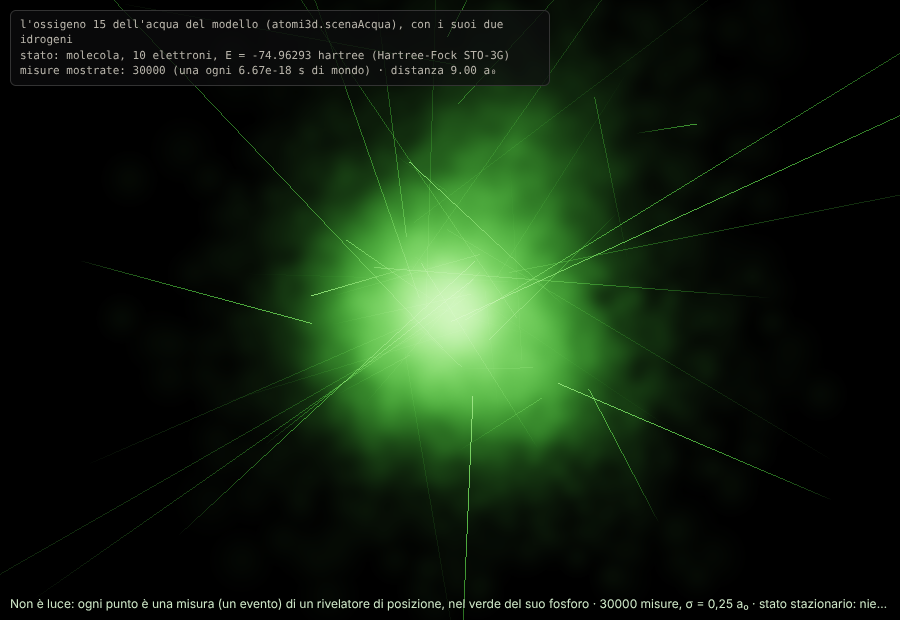
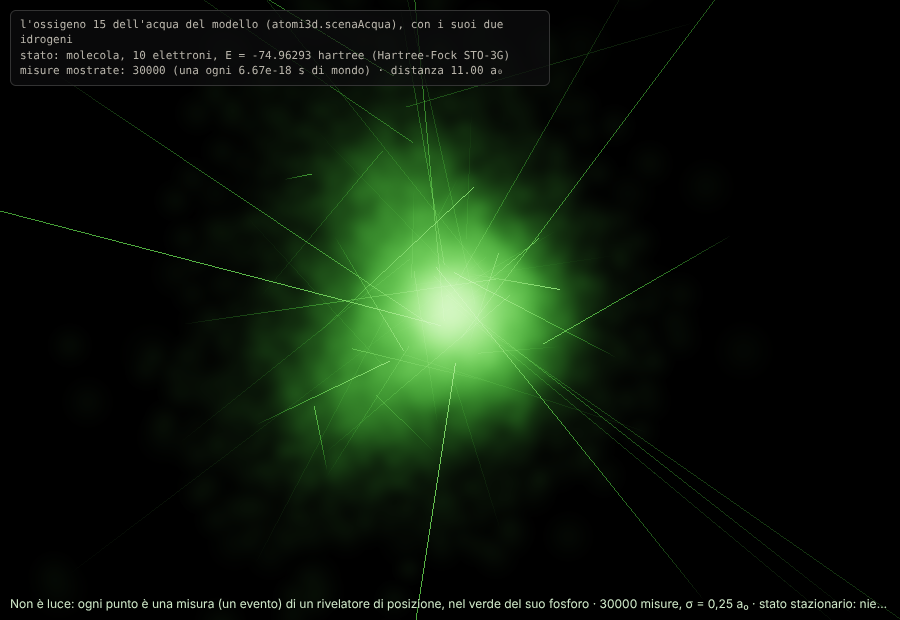
Istantanea dei lavori in corso
Claude-Session: https://claude.ai/code/session_01HEgRdxXhYcDZmLQ42e39by

Changed region(s): [[0.28, 0.0919, 0.7778, 0.8274], [0.7778, 0.5823, 0.8089, 0.6129]]

diff --git a/src/camera/laboratorio.js b/src/camera/laboratorio.js
@@ -310,7 +310,7 @@ function misura() {
   const dpr = devicePixelRatio || 1, H = tela.clientHeight || 1;
   try {
     if (vista === 'cosmo') {
-      if (vistaQuanti) { const g = vistaQuanti.grandezza?.() ?? vistaQuanti.scala?.(); if (g > 0) return g / H; }
+      if (vistaQuanti) { const g = grandezzaQuanti(); if (g > 0) return g / H; }
       if (vistaAtomi) { const c = vistaAtomi.camera; return (2 * c.dist * Math.tan((c.fov || 0.6) / 2) * 1e-9) / H; } // (la camera degli atomi conta in nanometri)
       if (mondo3d && universo3d) { const g = universo3d.bolla().grandezza; return g > 0 ? g / H : null; }
       if (camMappa?.livello === 5) { if (camMappa.suAcqua) return ((camMappa.latoAcqua ?? 1) / camMappa.z) * dpr; const r = rocciaDi(camMappa); return r ? (r.larghezzaM / camMappa.z) * dpr : null; } // (l'acqua: il lato del campione, senza ridisegnarlo)
@@ -434,7 +434,7 @@ function montaAtomi() {
     telaAtomi = document.createElement('canvas'); telaAtomi.style.cssText = 'position:absolute;inset:0;width:100%;height:100%'; tela.parentNode.insertBefore(telaAtomi, tela.nextSibling);
     vistaAtomi = creaVistaAtomi(telaAtomi, { alFuori: esciDagliAtomi, conserva: true });
     vistaAtomi.suAtomo((a) => { if (!a) { dove(); return; } ultimoAtomo = a; $('dove').textContent = `${a.nome || a.simbolo || 'un atomo'}${a.simbolo && a.nome ? ` (${a.simbolo})` : ''}${a.parte ? ` · ${typeof a.parte === 'string' ? a.parte : a.parte.nome || ''}` : ''}${a.rappresenta > 1 ? ` · da qui questa sfera ne rappresenta ${a.rappresenta}: avvicinati e tornano gli atomi` : ''}`; });
-    vistaAtomi.carica(sc.crea()); vistaAtomi.avvia(); chiaveAtomi = sc.chiave;
+    scenaAtomiOra = sc.crea(); vistaAtomi.carica(scenaAtomiOra); vistaAtomi.avvia(); chiaveAtomi = sc.chiave;
     // la camera degli atomi parte alla grandezza a cui si era (niente salto): lo schermo alto quanto era alto un attimo prima
     { const c = vistaAtomi.camera; if (mppPrima > 0) c.dist = (mppPrima * tela.clientHeight) / (2 * Math.tan((c.fov || 0.6) / 2)) * 1e9; }
     // oltre il più vicino possibile (dentro l'atomo): la scala quantistica, alla sua grandezza (montaQuanti)
@@ -447,25 +447,32 @@ function montaAtomi() {
 // ---------- SOTTO GLI ATOMI: LA SCALA QUANTISTICA (src/tre/quanti.js, creaQuanti(N, { atomo, luogo, scala }): un altro
 // modulo). Si monta sopra gli atomi, alla grandezza a cui si è arrivati (scala: l'altezza dello schermo, in metri), con
 // l'atomo che si aveva sotto gli occhi e il luogo di quella materia. Se il modulo non c'è ancora lo si dice, e si resta qui.
-let telaQuanti = null, vistaQuanti = null, nucleoQuanti = null, ultimoAtomo = null, quantiAssenti = false;
+let telaQuanti = null, vistaQuanti = null, nucleoQuanti = null, ultimoAtomo = null, quantiAssenti = false, scenaAtomiOra = null;
 function smontaQuanti() {
   try { vistaQuanti?.libera?.(); nucleoQuanti?.libera?.(); } catch { /* già perso */ }
   telaQuanti?.remove(); telaQuanti = null; vistaQuanti = null; nucleoQuanti = null;
 }
 async function montaQuanti() {
-  if (telaQuanti || quantiAssenti) { if (quantiAssenti) $('dove').textContent = 'Sotto gli atomi: la scala quantistica (src/tre/quanti.js) non è ancora scritta. Qui finisce, per ora, la scala.'; return; }
-  const scala = (misura() || 0) * tela.clientHeight, r = camMappa ? rocciaDi(camMappa) : null;
-  let mod; try { mod = await import('../tre/quanti.js'); } catch { quantiAssenti = true; return montaQuanti(); }
+  if (telaQuanti || quantiAssenti) { if (quantiAssenti) $('dove').textContent = 'Sotto gli atomi: la scala quantistica (src/tre/quanti.js) non si è potuta montare. Qui finisce, per ora, la scala.'; return; }
+  const alta = (misura() || 0) * tela.clientHeight, r = camMappa ? rocciaDi(camMappa) : null, sc = scenaAtomiOra; if (!sc || !(alta > 0)) return;
+  let mod, Qc; try { [mod, Qc] = await Promise.all([import('../tre/quanti.js'), import('./quanti.js')]); } catch { quantiAssenti = true; return montaQuanti(); }
   if (!vistaAtomi || telaQuanti || typeof mod.creaQuanti !== 'function') return;
   try {
+    // l'atomo: quello più vicino al punto verso cui si è scesi (il bersaglio della camera degli atomi, in nanometri)
+    const u = { m: 1, nm: 1e-9, A: 1e-10 }[sc.unita || 'nm'] || 1e-9, b = vistaAtomi.camera.bersaglio.map((x) => (x * 1e-9) / u), P = sc.atomi.pos; let i0 = 0, d0 = Infinity;
+    for (let i = 0; i < P.length / 3; i++) { const d = (P[3 * i] - b[0]) ** 2 + (P[3 * i + 1] - b[1]) ** 2 + (P[3 * i + 2] - b[2]) ** 2; if (d < d0) { d0 = d; i0 = i; } }
+    const atomo = Qc.atomoDaScena(sc, i0, { indirizzo: `${r?.luogo?.indirizzo || r?.base?.luogo?.indirizzo || chiaveAtomi}/atomo ${i0}` });
     telaQuanti = document.createElement('canvas'); telaQuanti.style.cssText = 'position:absolute;inset:0;width:100%;height:100%;outline:none'; (telaAtomi || tela).parentNode.insertBefore(telaQuanti, (telaAtomi || tela).nextSibling);
     nucleoQuanti = creaNucleo(telaQuanti, { conserva: true });
-    vistaQuanti = mod.creaQuanti(nucleoQuanti, { atomo: ultimoAtomo, luogo: r?.luogo || r?.base?.luogo || null, scala, alFuori: () => { const img = istantanea(); smontaQuanti(); disegna(); dove(); avviaPassaggio(img); } });
-    nucleoQuanti.avvia?.();
+    vistaQuanti = mod.creaQuanti(nucleoQuanti, { atomo, luogo: null, scala: atomo.scala });
+    // la camera parte alla grandezza a cui si era: lo schermo alto `alta` metri
+    nucleoQuanti.attacca(vistaQuanti.corpo, { distanza: alta / (2 * Math.tan((nucleoQuanti.camera.fov || 0.75) / 2)) }); nucleoQuanti.avvia();
     // allontanandosi oltre la grandezza da cui si è entrati si torna agli atomi
-    telaQuanti.addEventListener('wheel', (e) => { const g = vistaQuanti?.grandezza?.() ?? vistaQuanti?.scala?.(); if (e.deltaY > 0 && (!(g > 0) || g >= scala)) { e.stopImmediatePropagation(); e.preventDefault(); const img = istantanea(); smontaQuanti(); disegna(); dove(); avviaPassaggio(img); } }, { capture: true, passive: false });
+    telaQuanti.addEventListener('wheel', (e) => { if (e.deltaY > 0 && !(grandezzaQuanti() < alta)) { e.stopImmediatePropagation(); e.preventDefault(); const img = istantanea(); smontaQuanti(); disegna(); dove(); avviaPassaggio(img); } }, { capture: true, passive: false });
   } catch (err) { console.warn('la scala quantistica non si è potuta montare', err); smontaQuanti(); quantiAssenti = true; }
 }
+// l'altezza dello schermo nella scala quantistica (metri): dalla distanza della camera dall'atomo
+const grandezzaQuanti = () => { const d = vistaQuanti?.stato?.distanza; return d > 0 ? 2 * (nucleoQuanti?.stato?.tanY || Math.tan(0.375)) * d : null; };
 // ---------- IL MONDO IN TRE DIMENSIONI (src/tre): nella vista «il cosmo», dal cosmo fino al suolo, lo spazio in cui ci si
 // muove prende il posto della mappa piatta (che resta: senza WebGL2, e a richiesta col bottone «mappa piatta»). Una tela
 // nuova sopra #tela; il motore ha il suo ciclo. La camera della mappa (camMappa) segue: dice a che livello e dove si è,
@@ -1989,6 +1996,7 @@ function cosaSiGuarda() {
 }
 function barraDiScala(mpp) {
   if (!barraScala) return;
+  barraScala.style.bottom = telaQuanti ? '36px' : ''; // (sopra la riga dello strumento della scala quantistica)
   if (!(mpp > 0)) { if (barraPrima !== '') { barraScala.innerHTML = ''; barraPrima = ''; } return; }
   const ora = performance.now(); if (ora - barraOra < 200 && Math.abs(Math.log(mpp / barraMpp)) < 0.02) return; barraOra = ora; barraMpp = mpp; // (il testo al più cinque volte al secondo)
   const voluto = 120 * mpp, e = Math.pow(10, Math.floor(Math.log10(voluto))), passo = [1, 2, 5, 10].map((k) => k * e).filter((x) => x <= voluto).pop() || e, px = passo / mpp;
